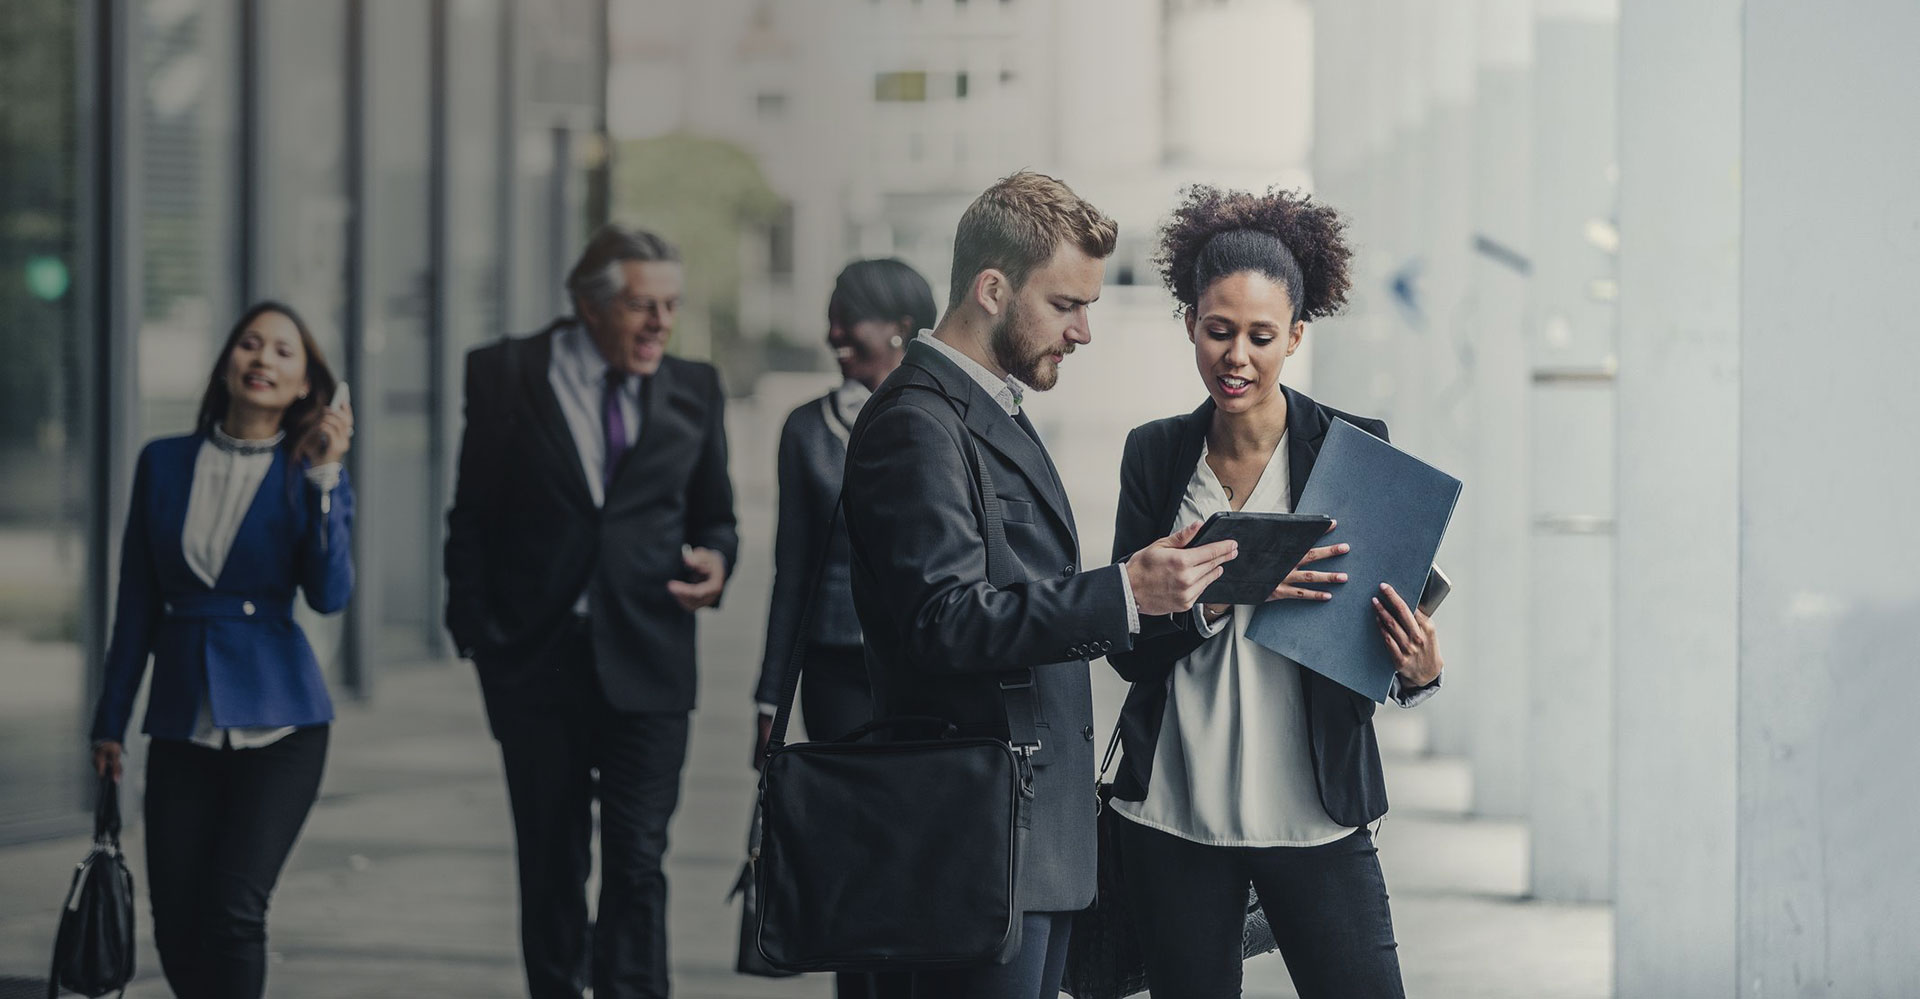
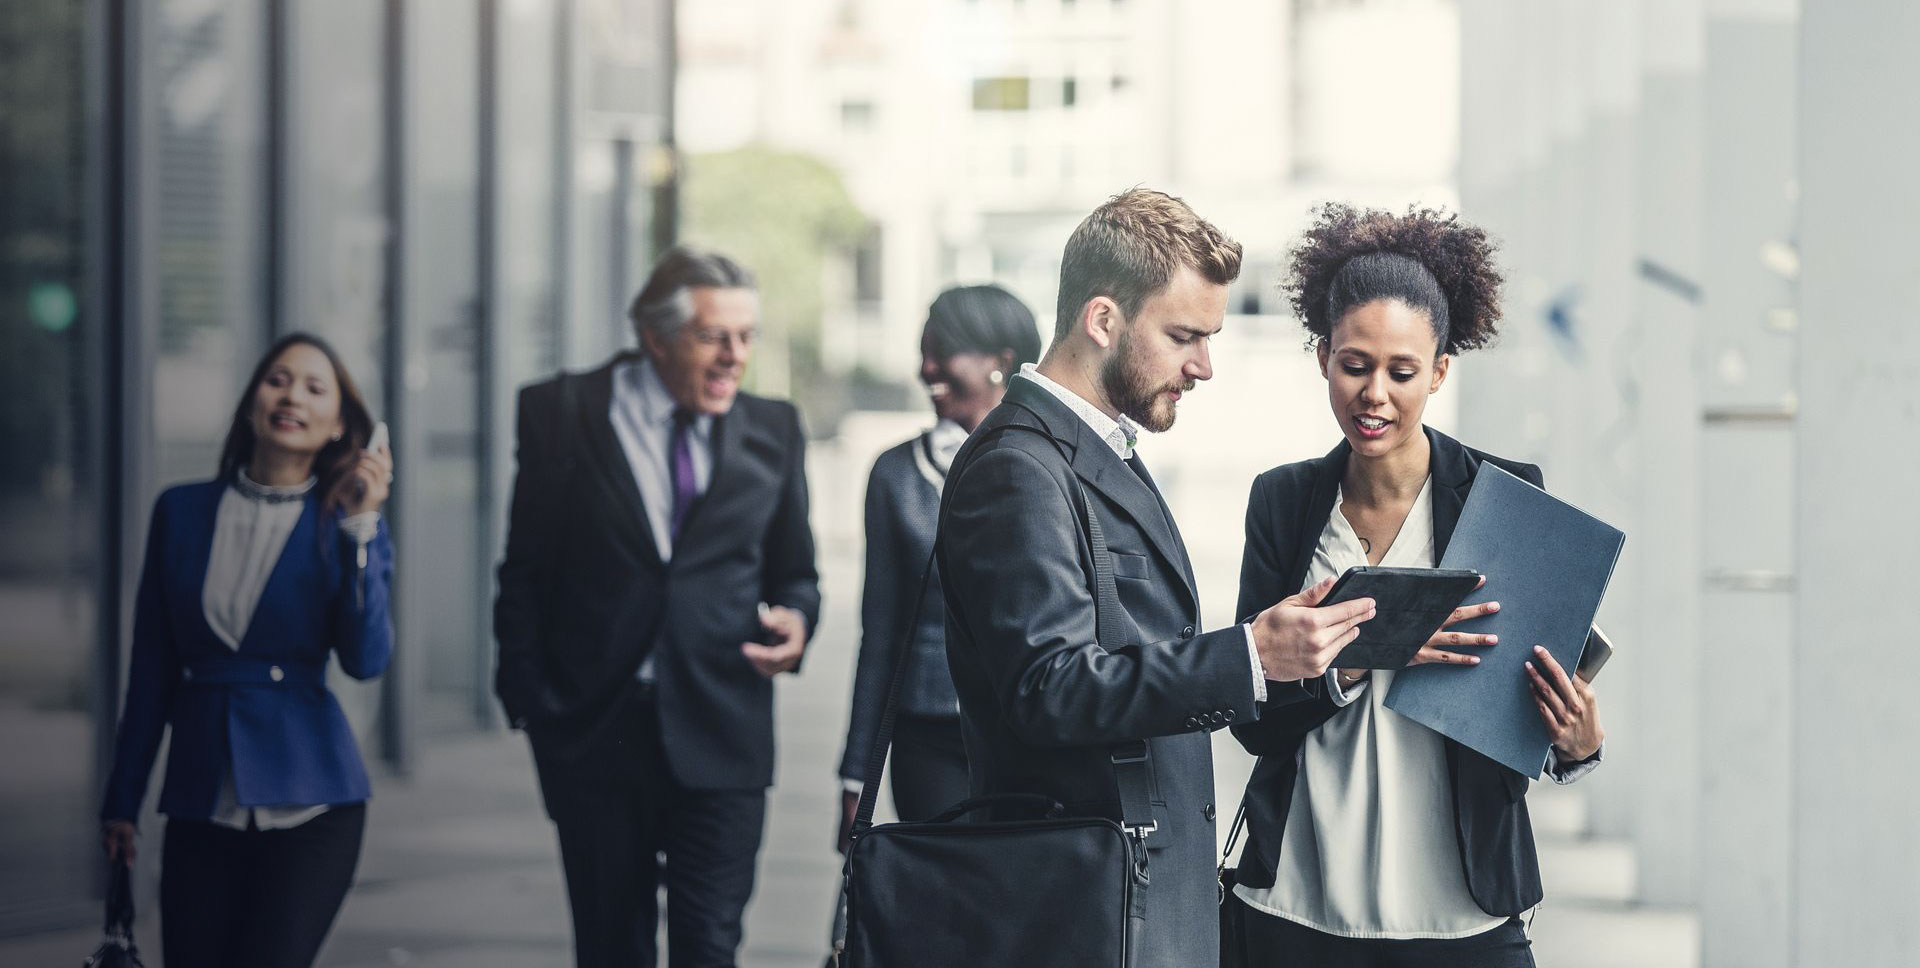
WIP

diff --git a/source/js/slider-home-02.js b/source/js/slider-home-02.js
@@ -18,9 +18,14 @@ $(document).ready(function () {
             style: 'uranus'
           }
         },
-        responsiveLevels: [1920, 992, 768, 576],
-        gridwidth: [1200, 600, 600, 300],
-        gridheight: [590, 400, 400, 400]
+        responsiveLevels: [1920, 1200, 769, 576],
+ 
+        /* [DESKTOP, LAPTOP, TABLET, SMARTPHONE] */
+        gridwidth: [1140, 960, 720, 540],
+    
+        /* [DESKTOP, LAPTOP, TABLET, SMARTPHONE] */
+        // gridheight: [590, 400, 400, 400]
+    
       });
     }
   });

diff --git a/source/js/slider-home-03.js b/source/js/slider-home-03.js
@@ -19,9 +19,13 @@ $(document).ready(function () {
             style: 'uranus'
           }
         },
-        responsiveLevels: [1920, 992, 768, 576],
-        gridwidth: [1200, 600, 600, 300],
-        gridheight: [500, 960, 720, 468]
+        responsiveLevels: [1920, 1200, 769, 576],
+ 
+        /* [DESKTOP, LAPTOP, TABLET, SMARTPHONE] */
+        gridwidth: [1140, 960, 720, 540],
+    
+        /* [DESKTOP, LAPTOP, TABLET, SMARTPHONE] */
+        // gridheight: [590, 400, 400, 400]
       });
     }
   });

diff --git a/source/js/slider-home-01.js b/source/js/slider-home-01.js
@@ -18,9 +18,12 @@ $(document).ready(function () {
             style: 'metis'
           }
         },
-        responsiveLevels: [1920, 992, 768, 576],
-        gridwidth: [1200, 600, 600, 300],
-        gridheight: [500, 960, 720, 468]
+        responsiveLevels: [1920, 1200, 769, 576],
+        /* [DESKTOP, LAPTOP, TABLET, SMARTPHONE] */
+        gridwidth: [1140, 960, 720, 540],
+    
+        /* [DESKTOP, LAPTOP, TABLET, SMARTPHONE] */
+        // gridheight: [590, 400, 400, 400]
       });
     }
   });

diff --git a/source/js/slider-home-05.js b/source/js/slider-home-05.js
@@ -19,9 +19,12 @@ $(document).ready(function () {
             style: 'metis'
           }
         },
-        responsiveLevels: [1920, 992, 768, 576],
-        gridwidth: [1200, 600, 600, 300],
-        gridheight: [500, 960, 720, 468]
+        responsiveLevels: [1920, 1200, 769, 576],
+        /* [DESKTOP, LAPTOP, TABLET, SMARTPHONE] */
+        gridwidth: [1140, 960, 720, 540],
+    
+        /* [DESKTOP, LAPTOP, TABLET, SMARTPHONE] */
+        // gridheight: [590, 400, 400, 400]
       });
     }
   });

diff --git a/source/sass/pages/_home-05.scss b/source/sass/pages/_home-05.scss
@@ -1,10 +1,5 @@
 .home-05 {
   &-slider {
-    height: calc(100vh - 121px);
-
-    img {
-      @include fitImage();
-    }
   }
 
   &-header {
@@ -55,8 +50,11 @@
   }
 
   &-why-us {
-    .thumb {
-      min-width: 180px;
+    .left {
+      img {
+        width: 600px;
+        max-width: 100%;
+      }
     }
 
     [class^="list-style-"] {

diff --git a/source/sass/pages/_home-04.scss b/source/sass/pages/_home-04.scss
@@ -35,8 +35,11 @@
   }
 
   &-why-us {
-    .thumb {
-      min-width: 180px;
+    .left {
+      img {
+        width: 500px;
+        max-width: 100%;
+      }
     }
 
     [class^="list-style-"] {

diff --git a/source/sass/pages/_home-01.scss b/source/sass/pages/_home-01.scss
@@ -154,7 +154,7 @@
   background-image: linear-gradient(
     to top,
     color(color1, 1) 10%,
-    color(color7, 1) 80%
+    color(color3, 1) 80%
   );
 }
 .bgTop {

diff --git a/source/sass/layout/_header.scss b/source/sass/layout/_header.scss
@@ -373,7 +373,7 @@
 
     .ts-header-logo-wrap {
       .header-logo {
-        height: 40px;
+        height: 50px;
         transition: all 0.35s;
       }
     }
